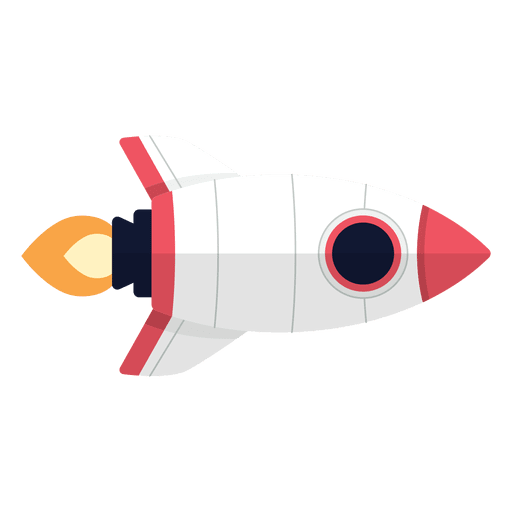
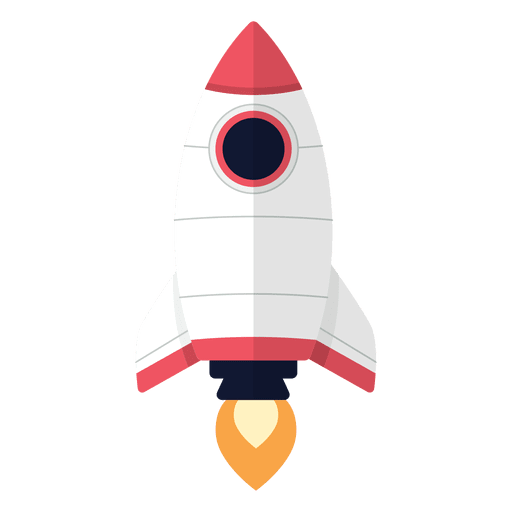
added some animations and a planet pop-up

Changed region(s): [[0.0312, 0.0312, 0.9688, 0.9688]]

diff --git a/assets/css/style.css b/assets/css/style.css
@@ -6,14 +6,14 @@
 
 
 #rocket {
-    height:auto;
-    width:2vw;
-    z-index:10;
-    transform: rotate(-90deg);
     position: absolute;
     top: 61.07%;
-    transform: translateY(-125%) translateX(-50%) rotate(-90deg);
+    transform: translateY(-50%) translateX(-50%);
     left: 69.07%;
+    width: 3%;
+    height: auto;
+    z-index: 10;
+    margin-top: -1.75%
 }
 
 #sun {
@@ -305,7 +305,64 @@
     height: 45vh;
 }
 
+.popup {
+    height: 20vh;
+    width:20vw;
+    margin-left: 25vw;
+    margin-top:5vh;
+    background-color: white;
+    position: absolute;
+    border-radius: 3%;
+    color: mediumseagreen;
+    display: none;
+}
+
+#popup-text{
+    font-size: 1.5vw;
+    text-align: center;
+    background-color: mediumseagreen;
+    color: white;
+
+}
+
 #ship-text {
     font-size: 1.5vw;
     text-align: center
 }
+
+.animation-earth-to-mars {
+    animation: animation-earth-to-mars 4000ms linear both;
+    
+    }
+    @keyframes animation-earth-to-mars { 
+    0% {  top: 61.07%; left:69.07%; margin-top: -1.75%; transform: rotate(0deg) translateY(-50%) translateX(-50%); }
+    50% { top: 49.5%; left:70.49%; margin-top: -1.75%; transform:rotate(15deg) translateY(-50%) translateX(-50%);} 
+    90% { top: 36%; left:71.9%; margin-top: -1.75%; transform:rotate(0deg) translateY(-50%) translateX(-50%);} 
+    95% { top: 37%; left:71.9%; margin-top: -1.75%; transform:rotate(0deg) translateY(-50%) translateX(-50%);} 
+    100% { top: 38%; left:71.9%; margin-top: -1.75%; transform:rotate(0deg) translateY(-50%) translateX(-50%);} 
+}
+
+.animation-earth-to-venus {
+    animation: animation-earth-to-venus 5000ms linear both;
+    
+    }
+    @keyframes animation-earth-to-venus { 
+    0% {  top: 61.07%; left:69.07%; margin-top: -1.75%; transform: rotate(0deg) translateY(-50%) translateX(-50%); }
+    50% { top: 51.5%; left:54.49%; margin-top: -1.75%; transform:rotate(-45deg) translateY(-50%) translateX(-50%);} 
+    90% { top: 39%; left:49.05%; margin-top: -1.75%; transform:rotate(0deg) translateY(-50%) translateX(-50%);} 
+    95% { top: 40%; left:49.05%; margin-top: -1.75%; transform:rotate(0deg) translateY(-50%) translateX(-50%);} 
+    100% { top: 41.05%; left:49.05%; margin-top: -1.75%; transform:rotate(0deg) translateY(-50%) translateX(-50%);} 
+}
+    
+.animation-mars-to-earth {
+    animation: animation-mars-to-earth 6000ms linear both;
+    
+    }
+    @keyframes animation-mars-to-earth { 
+    0% { top: 38%; left:71.9%; margin-top: -1.75%; transform:rotate(0deg) translateY(-50%) translateX(-50%);} 
+    25% { top: 34%; left:73.9%; margin-top: -1.75%; transform:rotate(120deg) translateY(-50%) translateX(-50%);} 
+    50% { top: 49%; left:77.9%; margin-top: -1.75%; transform:rotate(190deg) translateY(-50%) translateX(-50%);} 
+    75% { top: 60%; left:74.9%; margin-top: -1.75%; transform:rotate(270deg) translateY(-50%) translateX(-50%);} 
+    100% {  top: 61.07%; left:69.07%; margin-top: -1.75%; transform: rotate(360deg) translateY(-50%) translateX(-50%); }
+}
+    

diff --git a/assets/javascript/javascript.js b/assets/javascript/javascript.js
@@ -1,12 +1,14 @@
 $(document).ready(function() {
     var counter = 0;
     var data = 150
+    var x =0
 
     var unlockables = {
         ships : [
             {
             name : "X-WING",
             image: "assets/images/x-wing.png",
+            imageOn: "assets/images/x-wing-powered.png",
             unlockAmount: 100,
             },
             {
@@ -18,7 +20,13 @@ $(document).ready(function() {
             name : "ENTERPRISE",
             image: "assets/images/enterprise.png",
             unlockAmount: 200,
-            }
+            },
+            {
+            name : "SPACE SHUTTLE",
+            image: "assets/images/rocket-up.png",
+            imageOn: "assets/images/rocket.png",
+            unlockAmount: 100,
+            },
         ],
         characters : [
             {
@@ -38,6 +46,28 @@ $(document).ready(function() {
         $(".ship-selection-menu").addClass("is-active");
         unlockScreen();
     });
+
+    $("#mars").on("click", function(event) {
+        x=3900
+        $("#rocket").removeClass();
+        $("#rocket").addClass("animation-earth-to-mars");
+        startTravel();
+    });
+
+    $("#earth").on("click", function(event) {
+        x=5900
+        $("#rocket").removeClass();
+        $("#rocket").addClass("animation-mars-to-earth");
+        startTravel();
+    });
+
+    $("#venus").on("click", function(event) {
+        x=4900
+        $("#rocket").removeClass();
+        $("#rocket").addClass("animation-earth-to-venus");
+        startTravel();
+    });
+
     $("#upgrade-selection").on("click", function(event) {
         counter = 0
         $(".upgrade-selection-menu").addClass("is-active");
@@ -59,6 +89,19 @@ $(document).ready(function() {
         next()
     });
     
+
+    $(".planetImage").on("mouseenter", function() {
+        var text = this.id
+        console.log(text)
+        var upper = text.toUpperCase();
+        $(".popup").css("display", "inline-block");
+        $("#popup-text").html(upper);
+    });
+
+    $(".planetImage").on("mouseleave", function() {
+        $(".popup").css("display", "none");
+    });
+         
     //function cycles through the events
 
     function next () {
@@ -92,5 +135,11 @@ $(document).ready(function() {
         }
     }
 
+    function startTravel () {
+        $("#rocket").attr("src", unlockables.ships[3].imageOn)
+        setTimeout(function() {
+            $("#rocket").attr("src", unlockables.ships[3].image)
+        },x)
+    }
 
 });

diff --git a/index.html b/index.html
@@ -16,7 +16,7 @@
         <div class="twinkling"></div>
         <div class="galaxy"></div>
         <img src="assets/images/sun.png" class="planetImage" id="sun">
-        <img src="assets/images/unpowered.png" id="rocket">
+        <img src="assets/images/rocket-up.png" id="rocket">
         <img src="assets/images/mercury.png" class="planetImage" id="mercury">
         <img src="assets/images/venus.png" class="planetImage" id="venus">
         <img src="assets/images/earth.png" class="planetImage" id="earth">
@@ -26,10 +26,14 @@
         <img src="assets/images/uranus.png" class="planetImage" id="uranus">
         <img src="assets/images/neptune.png" class="planetImage" id="neptune">
 
+        <div class="popup">
+            <p id="popup-text"></p>
+        </div>
+
         <div id="selection-menu">
             <div id="ship-selection" class="selected">
                 <p class="selection-text"> SHIP SELECTION </p>
-                <img class="selection-img ship-image" src="assets/images/rocket.png">
+                <img class="selection-img ship-image" src="assets/images/unpowered.png">
             </div>
             <div id="character-selection" class="selected">
                 <p class="selection-text"> SELECT CHARACTERS</p>
